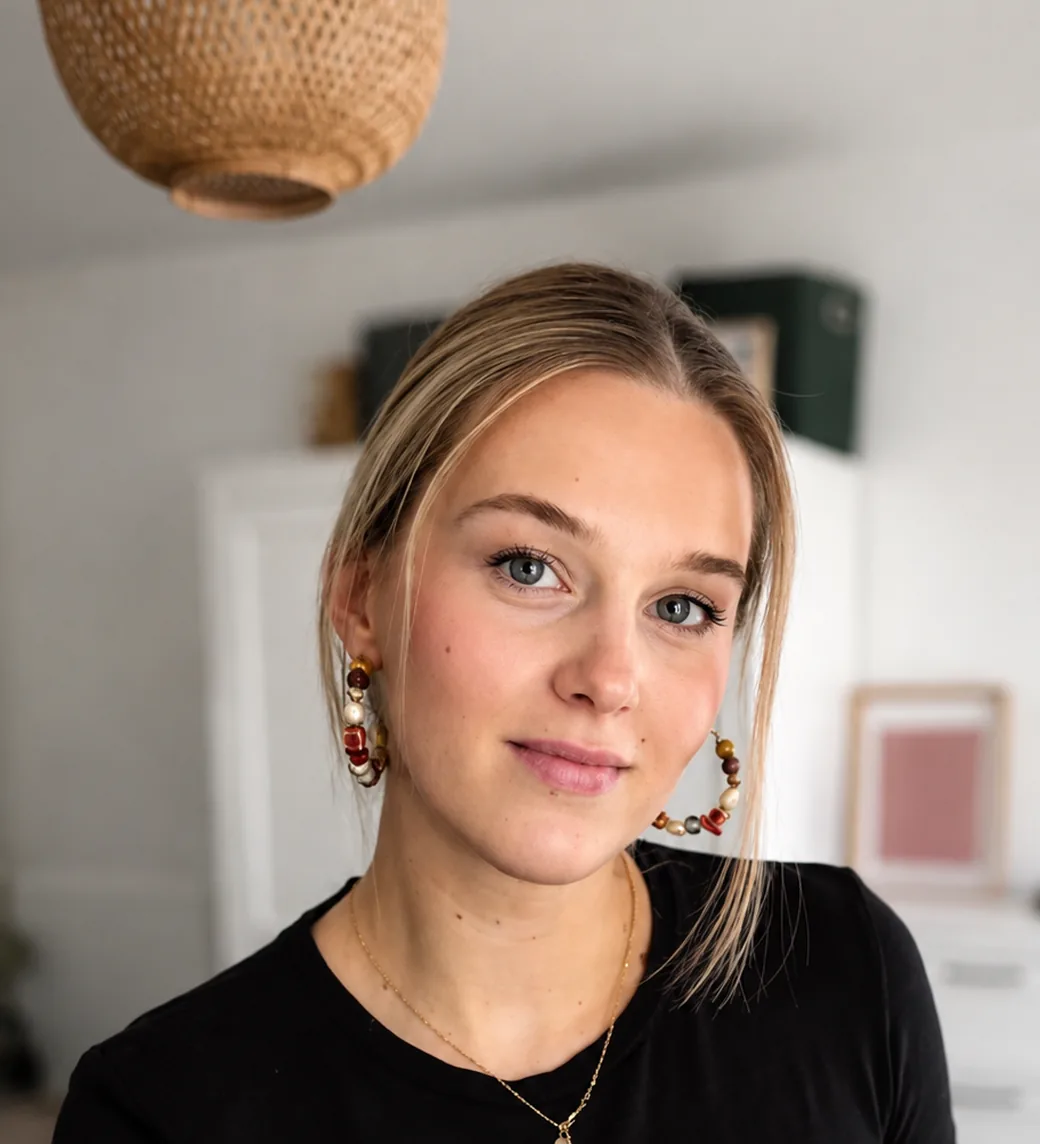
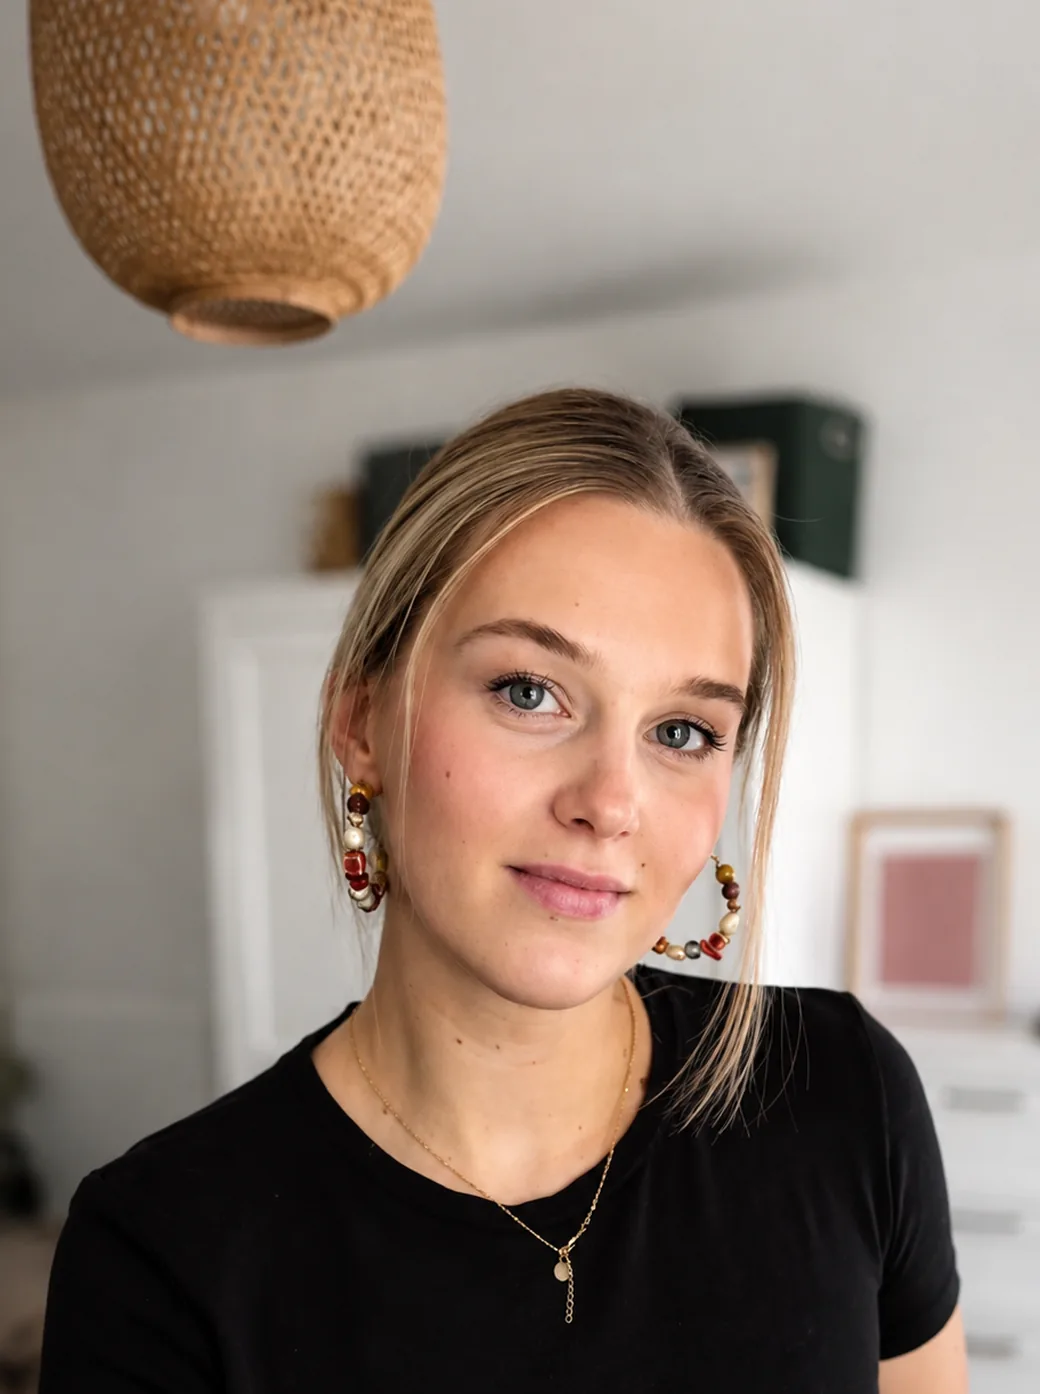
Le fond de Sacha, la photo jusqu'au nom, les bulles agrandies
L'image de fond remplace les nappes en dégradés : crèmes très doux, formes
organiques, pictogramme en filigrane. 1,6 Mo de PNG pour un dégradé —
`tools-fond.py` la ramène à 6 Ko en WebP, sans différence visible. Le
format téléphone reçoit sa propre découpe verticale : servie telle quelle,
l'image paysage était agrandie 1,4 fois pour couvrir la hauteur et l'on n'en
voyait plus qu'un tiers.

Le socle suit l'image plutôt que de rester à part : `--card` est relevé sur
sa teinte médiane. Tout le langage de relief repose sur des surfaces qui
partagent la couleur du fond, et resté au crème d'avant — plus gris que
l'image — chaque bulle se détachait comme un disque gris posé dessus au
lieu d'être creusée dans la page.

La photo descend maintenant jusqu'au nom : l'arche passe de 1/1,1 à 1/1,34,
et la découpe est régénérée à ce rapport plutôt que rognée sur les côtés.
Elle gagne 57 px de haut sur un écran de 390. Les bulles grandissent avec :
le rond passe de 44 à 52 px.

La photo est alignée en bas de sa rangée. Si la colonne de bulles se trouve
un peu plus haute, c'est elle qui dépasse vers le haut et la photo continue
de toucher le nom — c'est ce contact qui tient la composition.

Contrastes relevés sur le rendu : texte secondaire à 5,5:1, titres à 7,8:1.
L'image étant plus claire que l'ancien socle, la lecture y gagne. Aucun
débord de 280 × 653 à 1920 × 1080.

Supprimé `background.jpg`, le ruban orange essayé puis écarté.
[…]

diff --git a/assets/css/v2.css b/assets/css/v2.css
@@ -18,7 +18,12 @@
   --sage:       #A7AE9B;
   --yellow:     #F2E7B3;
 
-  --card:       #F4F1E9;
+  /* Le socle est **relevé sur l'image de fond** (sa teinte médiane), et non
+     choisi à part : tout le langage de relief repose sur des surfaces qui
+     partagent la couleur du fond. Resté au crème d'avant, plus gris que
+     l'image, chaque bulle se détachait comme un disque gris posé dessus au
+     lieu d'être creusée dans la page. */
+  --card:       #FCF0E2;
   --ink:        #2A2320;
   --ink-soft:   #635D57;
   --line:       rgba(42,35,32,.10);
@@ -137,7 +142,10 @@ body::after{
   width:100%; max-width:1180px; margin-inline:auto;
 }
 .logo    { grid-area:logo; }
-.portrait{ grid-area:photo; }
+/* Alignée en bas de sa rangée : si la colonne de bulles se trouve un peu
+   plus haute, c'est elle qui dépasse vers le haut, et la photo continue de
+   descendre jusqu'au nom — c'est ce contact-là qui tient la composition. */
+.portrait{ grid-area:photo; align-self:end; }
 .mot     { grid-area:mot; }
 .bulles  { grid-area:bulles; }
 .mot{
@@ -146,44 +154,34 @@ body::after{
   min-width:0;
 }
 
-/* --- Les nappes ---
-   Le fond n'est pas un aplat : cinq nappes très diluées, aux teintes des
-   rubriques, éclairent la page. Elles débordent largement de leur boîte
-   (`inset:-30%`) et **dérivent** — deux couches, deux vitesses, deux sens.
-   Sans le débord, la dérive ferait apparaître un bord ; sans les deux
-   couches, tout bougerait d'un bloc et le mouvement se verrait.
+/* --- Le fond ---
+   Une image, pas un aplat : crèmes très doux et formes organiques, avec le
+   pictogramme en filigrane. Elle vient de `fond-source.png` (1,6 Mo de PNG
+   pour un dégradé) ; `tools-fond.py` la ramène à **6 Ko** en WebP, sans
+   différence visible — un dégradé se compresse d'autant mieux qu'il est
+   lisse. Deux tailles : un téléphone n'a pas besoin de 1600 px.
 
-   La dérive porte sur `transform`, jamais sur les dégradés eux-mêmes :
-   déplacer un dégradé redessine à chaque image, déplacer une couche déjà
-   dessinée ne coûte qu'une recomposition. */
+   La couche est **fixée à la fenêtre**, et non posée dans la scène : celle-ci
+   est bornée à 1180 px, le fond s'y serait arrêté et les bords d'un grand
+   écran seraient restés crème nu. Fixée, elle ne compte pas non plus dans le
+   débordement de la page.
+
+   Elle respire très lentement — une dérive sur `transform`, jamais sur
+   l'image elle-même : déplacer une couche déjà dessinée ne coûte qu'une
+   recomposition, la redessiner coûte une image entière. */
 .halo{
-  /* Fixé à la fenêtre, et non posé dans la scène : la scène est bornée à
-     1180 px, les nappes s'y seraient arrêtées et les bords d'un grand
-     écran seraient restés crème nu. Fixé, l'élément ne compte pas non
-     plus dans le débordement de la page — en `absolute`, son -30 %
-     allongeait le document de 120 à 280 px selon l'écran. */
-  position:fixed; inset:-30%; z-index:0; pointer-events:none;
-  background:
-    radial-gradient(38% 28% at 34% 42%, rgba(242,231,179,.70) 0%, transparent 72%),
-    radial-gradient(24% 20% at 12% 74%, rgba(126,61,73,.12)   0%, transparent 78%);
-  animation:derive 38s ease-in-out infinite alternate;
+  position:fixed; inset:-8%; z-index:0; pointer-events:none;
+  background:url('../img/fond-m.webp') center/cover no-repeat;
+  animation:derive 46s ease-in-out infinite alternate;
 }
-.halo::after{
-  content:''; position:absolute; inset:0;
-  background:
-    radial-gradient(26% 22% at 78% 34%, rgba(227,158,153,.26) 0%, transparent 78%),
-    radial-gradient(30% 24% at 86% 72%, rgba(167,174,155,.30) 0%, transparent 76%),
-    radial-gradient(22% 18% at 60% 88%, rgba(172,75,40,.07)   0%, transparent 80%);
-  animation:derive2 53s ease-in-out infinite alternate;
+@media (min-width:780px){
+  .halo{ background-image:url('../img/fond.webp'); }
 }
 @keyframes derive{
   from{ transform:translate3d(0,0,0)      scale(1); }
-  to  { transform:translate3d(2.5%,-2%,0) scale(1.07); }
+  to  { transform:translate3d(1.5%,-1%,0) scale(1.05); }
 }
-@keyframes derive2{
-  from{ transform:translate3d(0,0,0)      scale(1.04); }
-  to  { transform:translate3d(-3%,1.6%,0) scale(1); }
-}
+
 .scene > *:not(.halo){ position:relative; z-index:1; }
 
 /* Écran large : deux colonnes. Le pictogramme coiffe la photo, le nom et
@@ -201,17 +199,6 @@ body::after{
   }
   /* Sur écran large, la composition tient à gauche : les nappes de droite
      s'élargissent pour que le vide reste habité au lieu d'être blanc. */
-  .halo{
-    background:
-      radial-gradient(30% 40% at 27% 50%, rgba(242,231,179,.70) 0%, transparent 72%),
-      radial-gradient(20% 26% at 7% 86%,  rgba(126,61,73,.12)   0%, transparent 78%);
-  }
-  .halo::after{
-    background:
-      radial-gradient(26% 38% at 70% 24%, rgba(227,158,153,.26) 0%, transparent 78%),
-      radial-gradient(30% 40% at 88% 76%, rgba(167,174,155,.30) 0%, transparent 76%),
-      radial-gradient(24% 30% at 52% 92%, rgba(172,75,40,.07)   0%, transparent 80%);
-  }
 }
 
 /* Le pictogramme seul, en tête d'écran. Il tient lieu d'en-tête : il n'y
@@ -231,8 +218,8 @@ body::after{
      de l'arche. Le `min()` garde une seconde borne en hauteur d'écran :
      sur un téléphone couché, la colonne est très large et la photo
      dépassait de 280 px. Deux limites, pas une. */
-  width:min(100%, 40vh); height:auto;
-  aspect-ratio:1/1.1;
+  width:min(100%, 34vh); height:auto;
+  aspect-ratio:1/1.34;
   border-radius:min(50vw,290px) min(50vw,290px) var(--r-lg) var(--r-lg);
   overflow:hidden;
   box-shadow:var(--nm-out-lg);
@@ -278,7 +265,10 @@ body::after{
 .bulles{
   display:flex; flex-direction:column; align-items:center;
   justify-content:space-between;
-  gap:clamp(.3rem,1vh,.7rem);
+  /* Espacement calé pour que la colonne fasse la hauteur de la photo :
+     plus haute, elle dictait la hauteur de la rangée et la photo cessait
+     de descendre jusqu'au nom. */
+  gap:clamp(.2rem,.6vh,.5rem);
   height:100%;
 }
 .bulle{
@@ -286,12 +276,12 @@ body::after{
   /* Assez large pour que « Rendez-vous » tienne sur une ligne : à deux
      lignes, la dernière bulle dépassait la hauteur de la photo et la
      colonne débordait sous elle. */
-  width:clamp(56px,16vw,72px);
+  width:clamp(62px,18vw,78px);
   color:var(--ink-soft);
   transition:transform .3s var(--ease-out), color .3s var(--ease);
 }
 .bulle__rond{
-  width:clamp(44px,12vw,74px); aspect-ratio:1;
+  width:clamp(52px,15vw,74px); aspect-ratio:1;
   display:grid; place-items:center;
   border-radius:50%;
   background:var(--card);
@@ -355,7 +345,7 @@ body::after{
    requête média du haut : à spécificité égale c'est la dernière déclaration
    qui l'emporte, et la colonne du téléphone reprenait le dessus. */
 @media (min-width:780px){
-  .portrait{ width:auto; height:clamp(220px,36vh,400px); }
+  .portrait{ width:auto; height:clamp(240px,42vh,460px); }
   .mot{ gap:clamp(.5rem,1.5vh,1rem); align-self:end; }
   .bulles{
     flex-direction:row; align-items:flex-start; justify-content:flex-start;
@@ -803,10 +793,10 @@ body::after{
 @media (max-height:700px){
   .scene{ row-gap:clamp(.4rem,1.2vh,1rem); }
   .logo{ width:clamp(28px,5vh,44px); margin-bottom:0; }
-  .portrait{ width:min(100%, 34vh); }
+  .portrait{ width:min(100%, 27vh); }
 }
 @media (max-height:520px){
-  .portrait{ width:min(100%, 30vh); }
+  .portrait{ width:min(100%, 22vh); }
   .logo{ width:clamp(22px,3.6vh,34px); }
   .titre{ font-size:clamp(1.5rem,4.2vh,2.4rem); }
   .accroche{ display:none; }
@@ -825,7 +815,7 @@ body::after{
 /* ---------- 8. MOUVEMENT RÉDUIT ---------- */
 @media (prefers-reduced-motion:reduce){
   *,*::before,*::after{ animation-duration:.01ms !important; transition-duration:.01ms !important; }
-  .halo, .halo::after{ animation:none; transform:none; }
+  .halo{ animation:none; transform:none; }
   .logo, .portrait, .titre, .accroche, .bulle{ opacity:1; }
   .portrait{ animation:none; }
 }

diff --git a/index.html b/index.html
@@ -72,9 +72,9 @@
 
   <figure class="portrait">
     <picture>
-      <source media="(max-width:760px)" srcset="assets/img/marie-hero-m.webp" width="700" height="770">
+      <source media="(max-width:760px)" srcset="assets/img/marie-hero-m.webp" width="700" height="938">
       <img src="assets/img/marie-hero.webp" alt="Marie, masseuse bien-être à Voisins-le-Bretonneux"
-           width="1040" height="1144" draggable="false" fetchpriority="high" decoding="async">
+           width="1040" height="1394" draggable="false" fetchpriority="high" decoding="async">
     </picture>
   </figure>
 

diff --git a/tools-fond.py b/tools-fond.py
@@ -1,0 +1,64 @@
+#!/usr/bin/env python3
+"""Prépare l'image de fond aux formats servis par le site.
+
+`fond-source.png` fait 1536 × 1024 pour 1,6 Mo : c'est un aplat de crèmes
+et de formes très douces, donc du PNG qui code en 24 bits ce qui n'a
+presque pas de détail. En WebP, la même image tombe à quelques dizaines de
+kilo-octets sans différence visible — un dégradé se compresse d'autant
+mieux qu'il est lisse.
+
+Deux tailles, servies par une requête média : le fond couvre la fenêtre,
+et un téléphone n'a pas besoin de 1536 px de large pour cela.
+
+    python3 tools-fond.py
+"""
+import pathlib
+
+from PIL import Image
+
+ROOT   = pathlib.Path(__file__).parent
+SOURCE = ROOT / 'fond-source.png'
+DEST   = ROOT / 'assets/img'
+
+# nom, largeur finale, rapport voulu (None = celui de la source), qualité
+#
+# La source est au format paysage. Servie telle quelle à un téléphone, elle
+# est agrandie 1,4× pour couvrir la hauteur : on n'en voit plus qu'un tiers,
+# et le pictogramme en filigrane sort du cadre. Le format téléphone reçoit
+# donc **sa propre découpe**, verticale, recadrée au centre.
+FORMATS = [
+    ('fond.webp',   1600, None,     74),
+    ('fond-m.webp',  760,  2 / 3,   72),
+]
+
+
+def recadre(im, rapport):
+    if rapport is None:
+        return im
+    W, H = im.size
+    if W / H > rapport:                 # trop large : on rogne les côtés
+        w = round(H * rapport); h = H
+    else:                               # trop haute : on rogne en hauteur
+        w = W; h = round(W / rapport)
+    x, y = (W - w) // 2, (H - h) // 2
+    return im.crop((x, y, x + w, y + h))
+
+
+def main():
+    if not SOURCE.exists():
+        raise SystemExit(f'fond introuvable : {SOURCE}')
+    src = Image.open(SOURCE).convert('RGB')
+    print(f'source : {src.size[0]}×{src.size[1]} · '
+          f'{SOURCE.stat().st_size / 1024:.0f} Ko')
+
+    for nom, largeur, rapport, qualite in FORMATS:
+        im = recadre(src, rapport)
+        h = round(largeur * im.size[1] / im.size[0])
+        im = im.resize((largeur, h), Image.LANCZOS)
+        chemin = DEST / nom
+        im.save(chemin, quality=qualite, method=6)
+        print(f'  {nom:14s} {largeur}×{h}  {chemin.stat().st_size / 1024:.1f} Ko')
+
+
+if __name__ == '__main__':
+    main()

diff --git a/tools-photos.py b/tools-photos.py
@@ -25,8 +25,10 @@ VISAGE_X, VISAGE_Y = 0.55, 0.40
 # (la visée par défaut convient aux formats hauts ; un bandeau large doit
 #  viser plus haut, sinon le crâne sort du cadre)
 FORMATS = [
-    # Héros de l'accueil : arche, un peu plus haute que large.
-    ('marie-hero.webp',      1 / 1.1, 1040, 0.98, VISAGE_Y),
+    # Arche de l'accueil. Plus haute que large, et **plus haute qu'avant** :
+    # sur téléphone la photo descend maintenant jusqu'au nom, et c'est cette
+    # hauteur gagnée qui laisse grandir la colonne de bulles à côté.
+    ('marie-hero.webp',     1 / 1.34, 1040, 0.98, VISAGE_Y),
     # Page « à propos » : portrait 4/5.
     ('marie-portrait.webp',  4 / 5,    800, 0.92, VISAGE_Y),
     # Héros sur téléphone : l'arche y est large et basse. Recadrer la
@@ -42,7 +44,7 @@ FORMATS = [
     # `marie-hero.webp` — celui-ci sert tel quel sur grand écran. Sur
     # téléphone le cadre est plus petit : moins de pixels suffisent pour
     # la même netteté apparente, pour la moitié du poids.
-    ('marie-hero-m.webp',    1 / 1.1,   700, 0.98, VISAGE_Y),
+    ('marie-hero-m.webp',   1 / 1.34,   700, 0.98, VISAGE_Y),
 ]
 
 

diff --git a/tools-preview.py b/tools-preview.py
@@ -57,7 +57,9 @@ def inline_css(css):
             raise SystemExit(f'visuel CSS introuvable : {rel}')
         b64 = base64.b64encode(f.read_bytes()).decode()
         return f'url(data:{MIME[f.suffix.lower()]};base64,{b64})'
-    return re.sub(r'url\(\.\./([\w./-]+)\)', sub, css)
+    # Les guillemets sont optionnels dans `url()` : les ignorer laissait
+    # passer le fond, déclaré `url('../img/fond.webp')`.
+    return re.sub(r'''url\(\s*['"]?\.\./([\w./-]+)['"]?\s*\)''', sub, css)
 
 
 css = inline_css((ROOT / 'assets/css/v2.css').read_text(encoding='utf-8'))
@@ -71,7 +73,7 @@ body = inline_illus(body)
 # pointeraient vers des fichiers que l'artifact ne sert pas.
 body = re.sub(r'<script src="assets/js/v2\.js"[^>]*></script>', '', body)
 
-if 'assets/img/' in body or '../img/' in css:
+if 'assets/img/' in body or '../img/' in css or '../fonts/' in css:
     raise SystemExit('un chemin de visuel n’a pas été embarqué')
 
 # L'artifact suit le thème du lecteur ; le site n'a qu'un mode clair.

diff --git a/README.md b/README.md
@@ -131,24 +131,34 @@ voit qu'il manque quand on l'enlève. Le bruit est calculé par le navigateur
 dizaines de kilo-octets, et aucun motif qui se répète. Mesuré à processeur bridé
 ×6, il ne coûte rien — médiane d'image identique avec et sans, à 16,6 ms.
 
-**Cinq nappes qui dérivent.** Aux teintes des rubriques, très diluées, elles
-éclairent la page et occupent le vide laissé à droite par la composition
-décentrée. Elles avancent lentement, en deux couches de vitesses et de sens
-différents : d'un bloc, le mouvement se verrait.
+**Une image de fond.** Crèmes très doux, formes organiques et le pictogramme
+en filigrane — fournie par Sacha (`fond-source.png`). Elle respire très
+lentement : une dérive de quelques pourcents, en boucle.
 
-> Les nappes sont **fixées à la fenêtre**, pas posées dans la scène. La scène
-> est bornée à 1180 px : les nappes s'y seraient arrêtées et les bords d'un
-> grand écran seraient restés crème nu. Fixées, elles ne comptent pas non plus
-> dans le débordement de la page — en `absolute`, leur débord de 30 %
-> allongeait le document de 120 à 280 px selon l'écran.
+> 1,6 Mo de PNG pour un dégradé. `tools-fond.py` la ramène à **6 Ko** en WebP,
+> sans différence visible — un dégradé se compresse d'autant mieux qu'il est
+> lisse. Le format téléphone reçoit sa **propre découpe verticale** : servie
+> telle quelle, l'image paysage était agrandie 1,4× pour couvrir la hauteur et
+> l'on n'en voyait plus qu'un tiers.
 
-> La dérive porte sur `transform`, jamais sur les dégradés eux-mêmes : déplacer
-> un dégradé le redessine à chaque image, déplacer une couche déjà dessinée ne
-> coûte qu'une recomposition.
+> L'image est **fixée à la fenêtre**, pas posée dans la scène. La scène est
+> bornée à 1180 px : le fond s'y serait arrêté et les bords d'un grand écran
+> seraient restés unis. Fixée, elle ne compte pas non plus dans le débordement
+> de la page.
+
+> La dérive porte sur `transform`, jamais sur l'image : déplacer une couche
+> déjà dessinée ne coûte qu'une recomposition, la redessiner coûte une image
+> entière.
+
+**Le socle a suivi.** `--card` est désormais **relevé sur l'image** (sa teinte
+médiane, `#FCF0E2`) et non choisi à part. Tout le langage de relief repose sur
+des surfaces qui partagent la couleur du fond : resté au crème d'avant, plus
+gris que l'image, chaque bulle se détachait comme un disque gris posé dessus
+au lieu d'être creusée dans la page.
 
 Contrastes relevés sur le rendu, aux points les plus teintés du fond : le texte
-secondaire tient **4,9:1** et les titres **7,1:1**. Les nappes réchauffent le
-crème, elles ne l'assombrissent pas au point de gêner la lecture.
+secondaire tient **5,5:1** et les titres **7,8:1**. L'image étant plus claire
+que l'ancien socle, la lecture y gagne.
 
 > Le neumorphisme *franc* est écarté volontairement : il repose sur des écarts
 > de luminosité trop faibles pour rester lisible. C'est sa variante accessible
